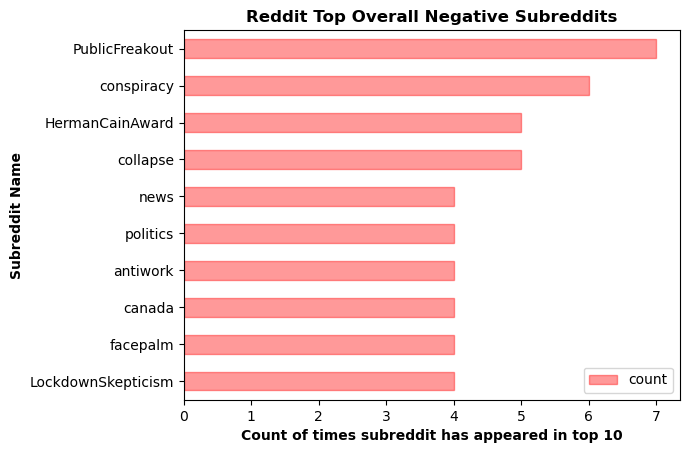
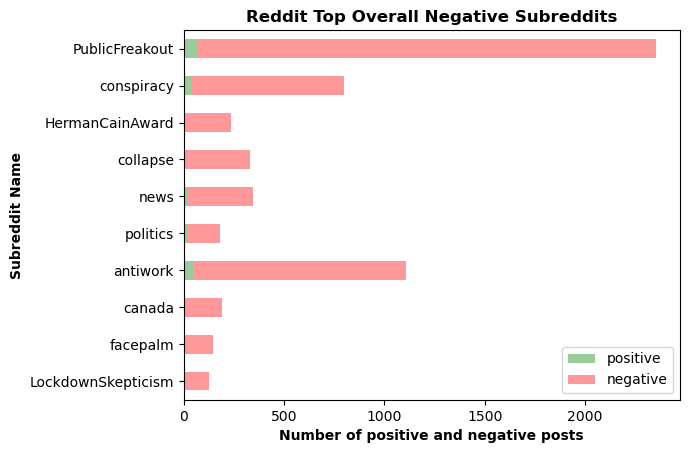
Most common shared graphs

diff --git a/src/reddit_modules.py b/src/reddit_modules.py
@@ -182,6 +182,12 @@ def shared_subreddits(reddit_vars):
     subreddits_negative = {}        # holds vars for positive and negative subreddit count
     subreddits_positive = {}
 
+    subreddits_pos_p_posts = {}     # pos subredit pos posts
+    subreddits_pos_n_posts = {}     # pos subredit neg posts
+    
+    subreddits_neg_p_posts = {}     # neg subredit pos posts
+    subreddits_neg_n_posts = {}     # neg subredit neg posts
+
     for library in reddit_vars:
         for run in reddit_vars[library]:
             for topic in reddit_vars[library][run]:
@@ -191,39 +197,53 @@ def shared_subreddits(reddit_vars):
                     
                     neg_df = df[df["total_num"] > ratio].sort_values(["neg_perc"], ascending=False).head(10)
                     pos_df = df[df["total_num"] > ratio].sort_values(["pos_perc"], ascending=False).head(10)
-
+                    
                     for index, row in neg_df.iterrows():        # loop adds subreddit to dictionary count each time it apears in top 10
                         if index in subreddits_negative:
                             subreddits_negative[index] += 1
+                            subreddits_neg_p_posts[index] += row["positive"]        # adds positive and negative count if in dictionary
+                            subreddits_neg_n_posts[index] += row["negative"]
+
                         else:
                             subreddits_negative[index] = 1
+                            subreddits_neg_p_posts[index] = row["positive"]     # sets positive and negative count if not in dictionary
+                            subreddits_neg_n_posts[index] = row["negative"]
                     
                     for index, row in pos_df.iterrows():
                         if index in subreddits_positive:
                             subreddits_positive[index] += 1
+                            subreddits_pos_p_posts[index] += row["positive"]
+                            subreddits_pos_n_posts[index] += row["negative"]
                         else:
                             subreddits_positive[index] = 1
+                            subreddits_pos_p_posts[index] = row["positive"]
+                            subreddits_pos_n_posts[index] = row["negative"]
 
     neg_df = pd.DataFrame(list(subreddits_negative.items()), columns=['subreddit', 'count'])        # turns into dataframe for analysis
+    neg_n_df = pd.DataFrame(list(subreddits_neg_n_posts.items()), columns=['subreddit', 'negative'])
+    neg_p_df = pd.DataFrame(list(subreddits_neg_p_posts.items()), columns=['subreddit', 'positive'])
+
     pos_df = pd.DataFrame(list(subreddits_positive.items()), columns=['subreddit', 'count'])
-    return neg_df, pos_df
+    pos_p_df = pd.DataFrame(list(subreddits_pos_p_posts.items()), columns=['subreddit', 'positive'])
+    pos_n_df = pd.DataFrame(list(subreddits_pos_n_posts.items()), columns=['subreddit', 'negative'])
+
+    neg_final = pd.merge(pd.merge(neg_df, neg_p_df,on='subreddit'), neg_n_df,on='subreddit')        # merges positive and negative dfs
+    pos_final = pd.merge(pd.merge(pos_df, pos_p_df,on='subreddit'), pos_n_df,on='subreddit')
+    return neg_final, pos_final
 
 
 #---------- GRAPHS CROSSOVER BETWEEN SUBREDDITS ----------#
 
 def graph_common_subreddits(df, sentiment):
 
-    df = df.sort_values(["count"], ascending=True)     # sorts the values to plot
-
+    df = df.sort_values(by="count", ascending=True)     # sorts the values to plot
+    df = df.set_index('subreddit')
     plt.style.use('default') 
-    df.reset_index().plot(      # plots the most subreddits horizontally with times appeared in count
-        x="subreddit", y="count", kind="barh",
-        color="red", alpha=0.4, edgecolor='red'
-    )
 
+    df[['positive','negative']].plot(kind='barh', stacked=True, alpha=0.4, color=["green", "red"])
     plt.title("Reddit Top Overall " + sentiment.capitalize() + " Subreddits", fontweight='bold')
     plt.xticks(rotation=0)      # to make x-axis labels flat
     plt.legend(loc="lower right")
-    plt.xlabel("Count of times subreddit has appeared in top 10", fontweight='bold')
+    plt.xlabel("Number of positive and negative posts", fontweight='bold')
     plt.ylabel("Subreddit Name", fontweight='bold')
     plt.savefig("reddit_graphs/crossover/" + sentiment + "_mostcommon.png", bbox_inches='tight')        # saves image to folder
